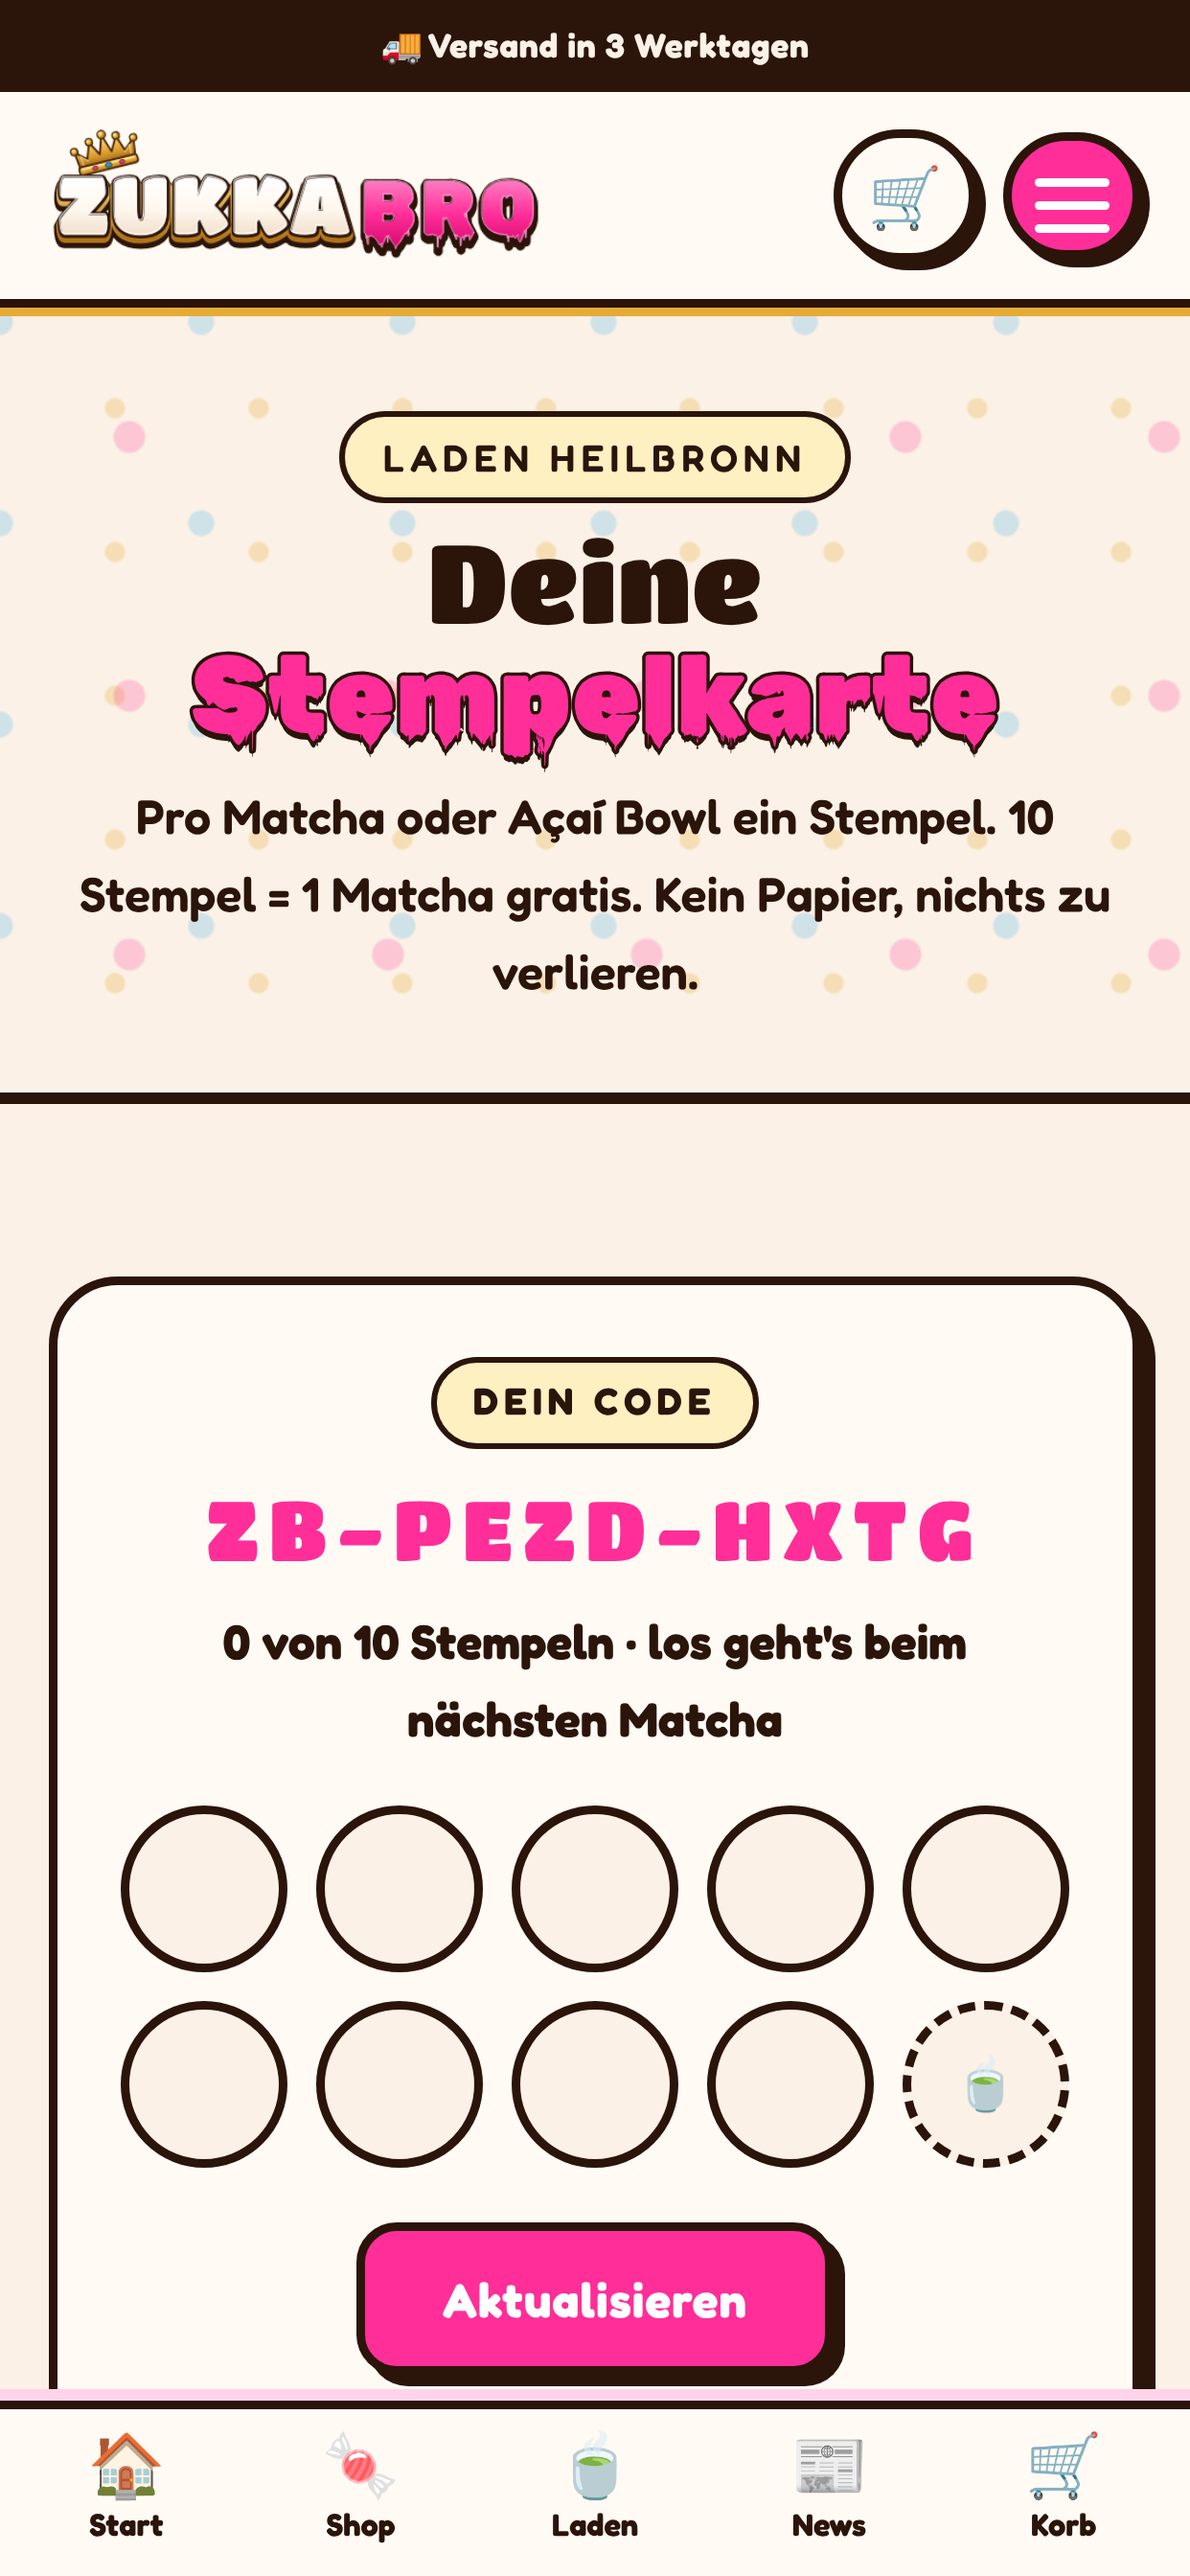
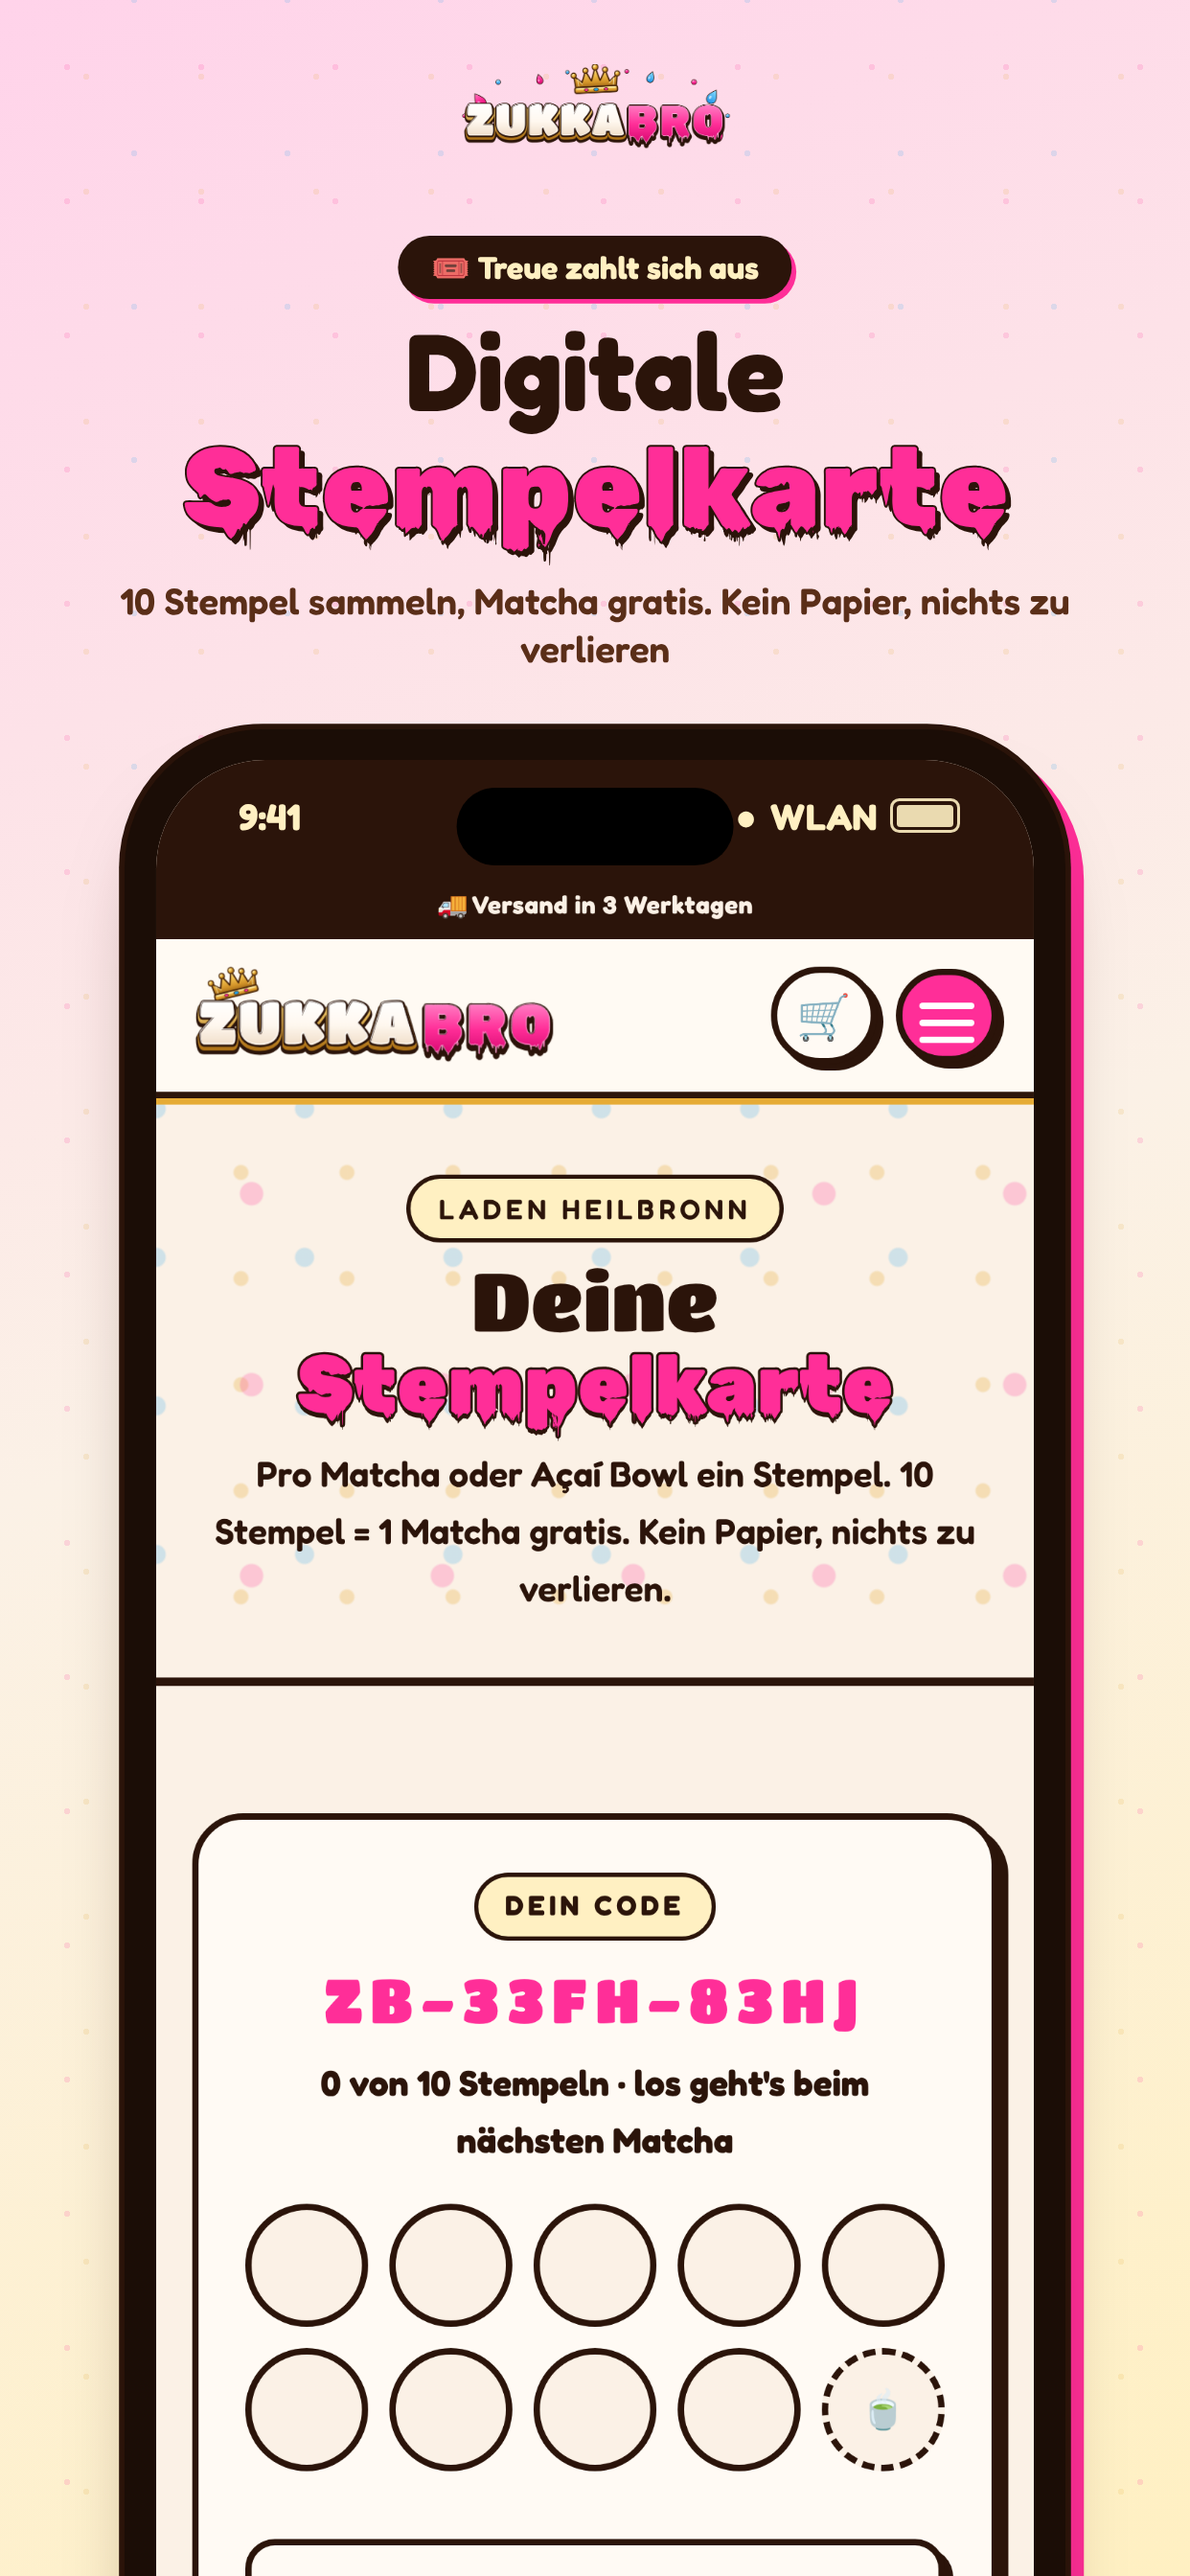
App Store: gestaltete Screenshots mit Rahmen und Überschriften (7 Motive, 6,7 und 6,5 Zoll)
Claude-Session: https://claude.ai/code/session_01WifcpgzEB5RbeboDwQZEAR

diff --git a/app/APP-STORE.md b/app/APP-STORE.md
@@ -52,12 +52,14 @@ Erste Version: Sortiment, Warenkorb, Laden-Infos, Stempelkarte und News.
 
 ## 2. Screenshots
 
-Liegen fertig in `app/store/screenshots/`:
-- `6.9-*.png` (1320 × 2868) für iPhone 6,9"
-- `6.7-*.png` (1290 × 2796) für iPhone 6,7"
+Fertig gestaltet (Marken-Hintergrund, Überschrift, iPhone-Rahmen) in `app/store/screenshots/`, sieben Motive:
+01 Start, 02 Sortiment, 03 Produkt-Infos, 04 Matcha & Açaí, 05 Stempelkarte, 06 Pakete, 07 Gewinnspiel.
+- `6.7-*.png` (1290 × 2796) für iPhone 6,7" (gilt in App Store Connect auch für 6,9")
 - `6.5-*.png` (1242 × 2688) für iPhone 6,5"
 
-In App Store Connect bei der Version unter „iPhone“ die Bilder je Größe hochladen (Reihenfolge 01 bis 06). Da die App nur für iPhone ist, sind keine iPad-Bilder nötig.
+Die Bilder werden per API hochgeladen (`asc-shots.cjs` im Arbeitsordner). Achtung: Nach „Zur Prüfung einreichen“ sind
+Screenshots gesperrt. Zum Austauschen die Einreichung unter App Store Connect → App → Version → „Aus Prüfung entfernen“
+zurückziehen, Bilder hochladen, erneut einreichen. Da die App nur für iPhone ist, sind keine iPad-Bilder nötig.
 
 ## 3. App-Datenschutz (Fragebogen „App-Datenschutz“)
 
